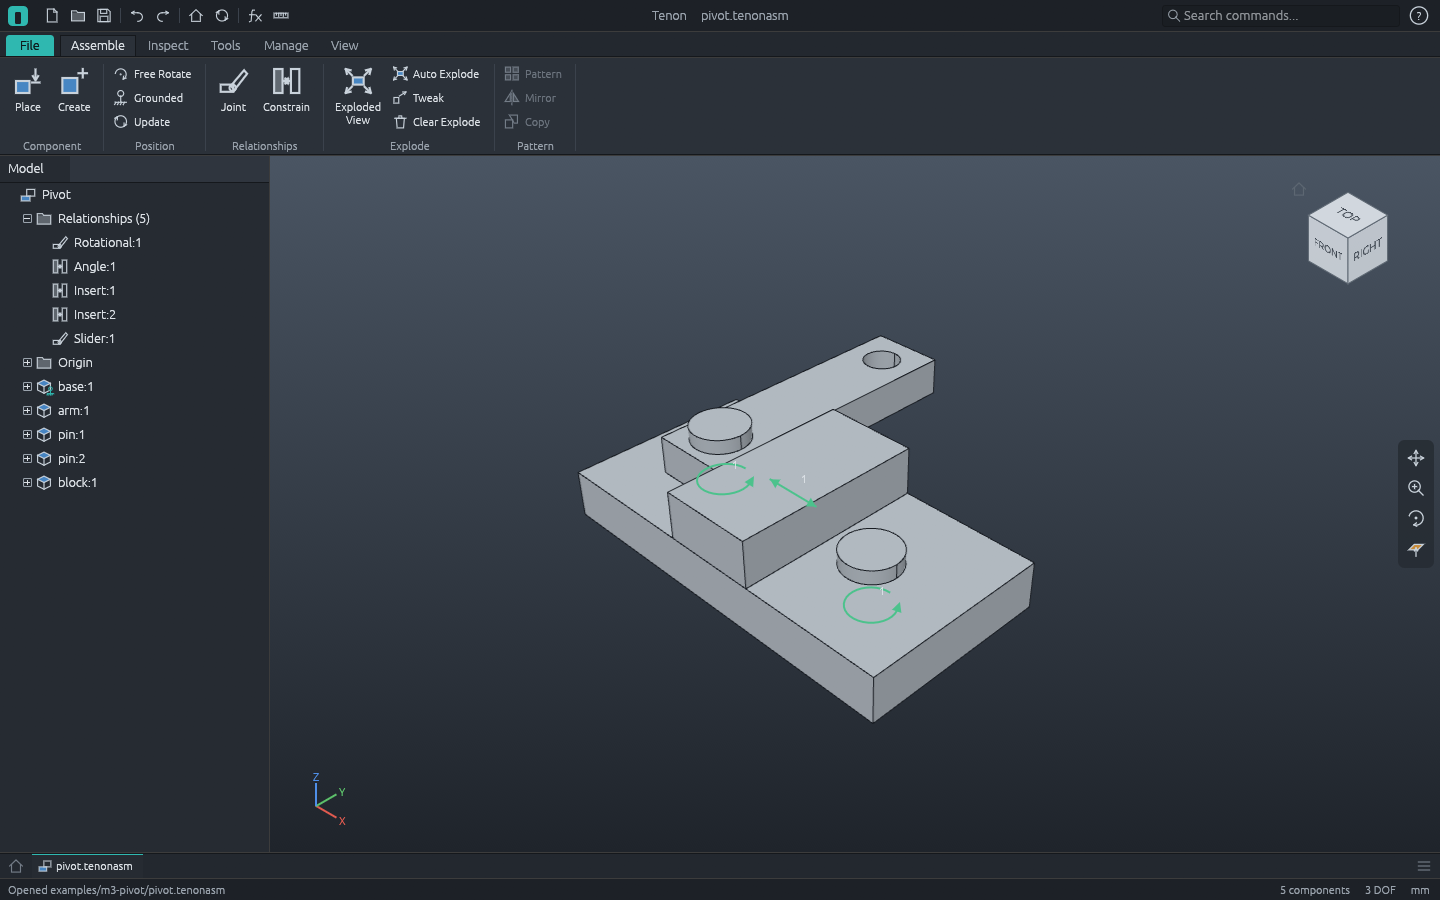
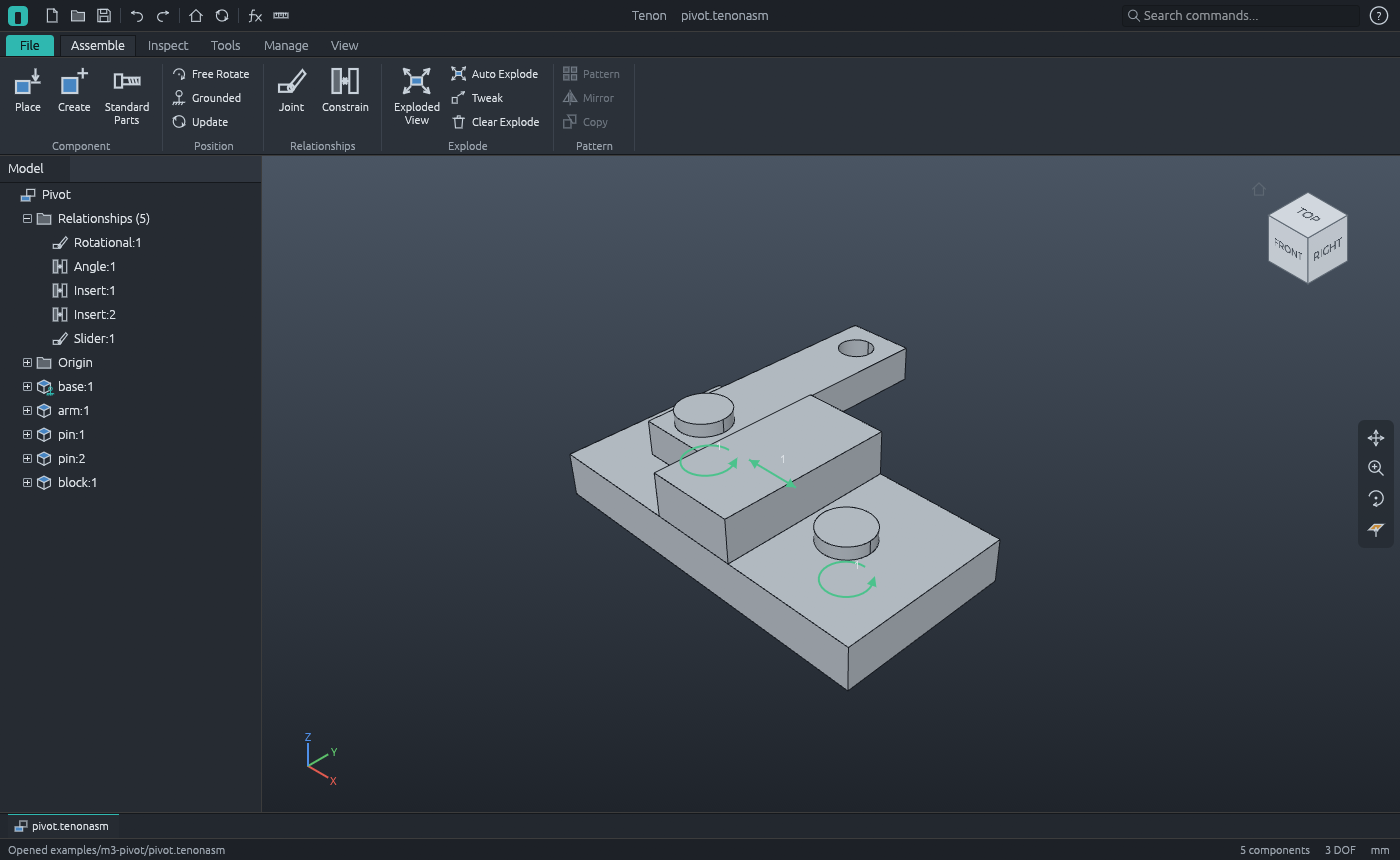
README: what 0.2.0 brings, in its list, with a picture of a shape
The list stopped at 0.1.0, with no stress checks or Optimize Shape. The m3 and m7
pictures are retaken, from before several ribbon panels; m0-shell, an M0 mock-up
nothing shows, is gone.

diff --git a/README.md b/README.md
@@ -21,11 +21,15 @@ see [Building](#building) below.
 
 In parts, you can:
 
-- sketch on a plane, a face of the part or a work plane (lines, arcs, circles, rectangles,
-  polygons, splines), with typed values, inference, live solving and a degrees-of-freedom readout;
-- extrude (straight or tapered) and revolve to add, cut or intersect, with a live preview;
+- sketch on a plane, a face of the part or a work plane (lines, arcs, circles, ellipses,
+  rectangles, slots, polygons, splines, text), with typed values, inference, live solving and a degrees-of-freedom readout;
+- extrude (straight or tapered; a distance, through all, to a face or plane, to the next face,
+  between two faces) and revolve (either way, by two angles, to a face or plane, to the next face)
+  to add, cut or intersect, with a live preview;
 - sweep a profile along a path, loft through sections, wind coils;
-- fillet, chamfer and shell; drill simple, counterbored and countersunk holes; add ribs;
+- fillet (constant, variable or between two sets of faces), chamfer and shell; drill simple,
+  clearance and tapped holes, counterbored, spotfaced or countersunk, at a sketch's points or
+  where you click a face; add ribs;
 - thread shafts and holes (cosmetic, or cut into the part), draft faces, split and combine
   solids;
 - copy features in rectangular and circular patterns, and mirror them;
@@ -44,12 +48,17 @@ In parts, you can:
 - roll the part back with the End of Part marker, reorder and suppress features;
 - measure areas, lengths, distances and angles;
 - edit any feature later: faces and edges you referred to are found again after upstream edits;
+- check the part for 3D printing and export it as STL or 3MF;
+- work out a quick stress check of it, held and loaded as you say, with results in colour on the
+  part ([docs/stress.md](docs/stress.md));
+- work out where material is needed to carry those loads, with Optimize Shape, as a shape to model
+  over ([docs/topology.md](docs/topology.md));
 - save `.tenon` projects and export STEP and STL.
 
 In assemblies (`.tenonasm` files that use your part files), you can:
 
-- place components, ground them, and hold them together with mate, flush, angle and insert
-  constraints or rigid, rotational, slider, cylindrical, planar and ball joints;
+- place components, ground them, and hold them together with mate, flush, angle, insert, tangent
+  and symmetry constraints or rigid, rotational, slider, cylindrical, planar and ball joints;
 - drag components (their relationships hold) and see the degrees of freedom each has left;
 - check interference, list the parts with their materials and masses (and export the list as
   CSV), weigh the assembly, explode it;
@@ -80,6 +89,8 @@ is in [ROADMAP.md](ROADMAP.md).
 ![The M7 demo: the 3D Print Check window on a printed end cap](examples/m7-end-cap/print-check.png)
 
 ![The M8 demo: the flat pattern of a folded tray, with its bend lines](examples/m8-tray/flat-pattern.png)
+
+![A shape worked out by Optimize Shape, over the bracket it is for](docs/images/shape.png)
 
 ## Design
 

diff --git a/ATTRIBUTION.md b/ATTRIBUTION.md
@@ -47,7 +47,7 @@ Standard sizes and physical constants held in code:
 | `Hack-Regular.ttf` (no file in this repository) | Source Foundry Authors; glyphs from Bitstream Vera and DejaVu | the same crate | MIT, with the Bitstream Vera licence for what it takes from there | The window's fixed-width text. Licence: `fonts/Hack-Regular.txt` in the same place |
 | `NotoEmoji-Regular.ttf` (no file in this repository) | Google Inc. | the same crate | SIL Open Font License 1.1 | The window's symbols. Licence: `fonts/OFL.txt` in the same place |
 | `emoji-icon-font.ttf` (no file in this repository) | John Slegers | the same crate | MIT | The window's symbols. Licence: `fonts/emoji-icon-font-mit-license.txt` in the same place |
-| `docs/images/m0-shell.png` | Tenon contributors | screenshot of Tenon itself: `tenon --screenshot docs/images/m0-shell.png` | MIT OR Apache-2.0 | Original; no third-party UI |
+| `docs/images/shape.png` | Tenon contributors | screenshot of Tenon itself: a 120 x 10 x 60 bar held at one end and pushed at the other, half its mass kept, by `tenon shape.tenon --run analysis.begin --run analysis.optimize.now --screenshot docs/images/shape.png --size 1400x860` (on a build that lets a screenshot wait for the run) | MIT OR Apache-2.0 | Original; no third-party UI |
 | `assets/templates/templates.json` | Tenon contributors | written for this repository (the command script that makes the drawing templates) | MIT OR Apache-2.0 | Original |
 | `assets/templates/ansi-b.tenondrw` | Tenon contributors | generated: `tenon-cli run assets/templates/templates.json --out assets/templates` | MIT OR Apache-2.0 | Original; Tenon's own title block |
 | `assets/templates/iso-a3.tenondrw` | Tenon contributors | generated: same command | MIT OR Apache-2.0 | Original; Tenon's own title block |
